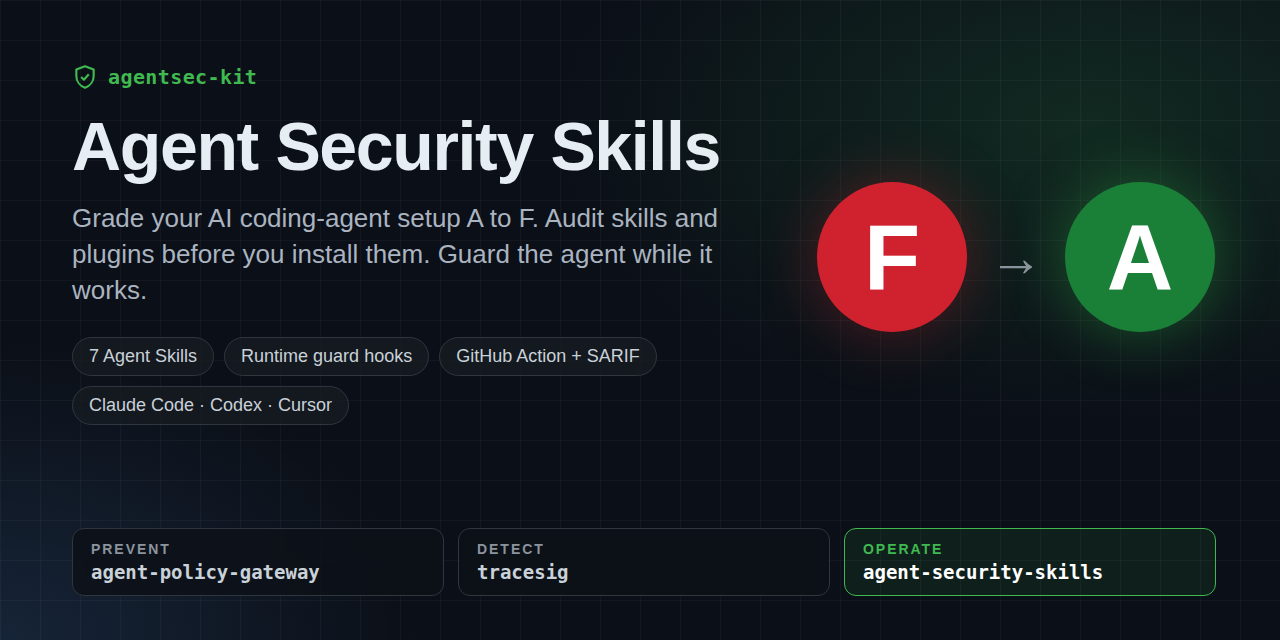
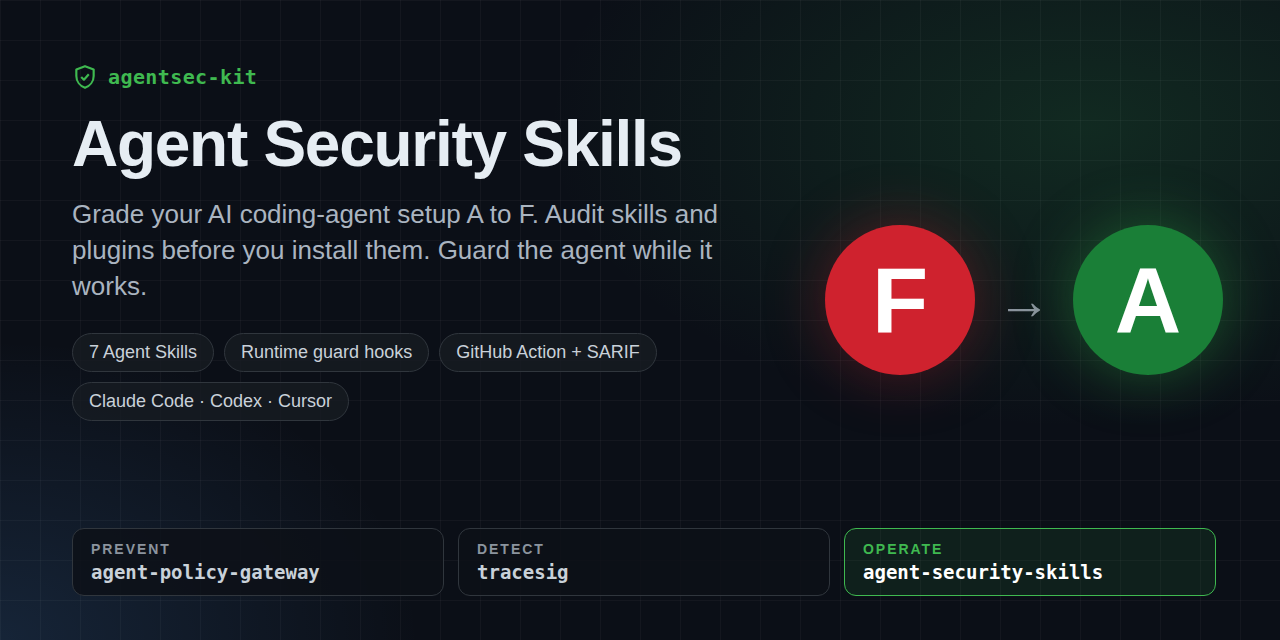
Pin agent-trace-detection to TraceSig 0.2.0; refresh social preview
TraceSig 0.2.0 reads Claude Code transcripts and agent-policy-gateway exports
directly and ships this skill's CC rules as its claude-code pack.

Claude-Session: https://claude.ai/code/session_01FwhXj6K8KKvpYWVdVHzQD6

diff --git a/skills/agent-trace-detection/SKILL.md b/skills/agent-trace-detection/SKILL.md
@@ -2,7 +2,7 @@
 name: agent-trace-detection
 description: Builds and runs detections over AI coding-agent activity - normalizes Claude Code session transcripts and OpenTelemetry exports, runs bundled Sigma rules (for SIEMs) and TraceSig rules (provenance-aware, e.g. secret read then network call, untrusted content then publish), and guides writing and testing new agent detections. Use to set up monitoring for coding-agent fleets, hunt through local transcripts after a suspicious session, or write detection rules for agent tool calls.
 license: Apache-2.0
-compatibility: Python 3.9+. sigma_check.py needs PyYAML. TraceSig rules need the tracesig package from github.com/howardhsieh/tracesig.
+compatibility: Python 3.9+. sigma_check.py needs PyYAML. TraceSig rules need the tracesig package (0.2.0+) from github.com/howardhsieh/tracesig.
 metadata:
   author: howardhsieh
   version: "0.2.0"
@@ -116,10 +116,15 @@ python3 "$S/scripts/normalize.py" otel-export.json --format flat --out "$W/flat.
 TraceSig rules (provenance chains, in `assets/tracesig/`):
 
 ```bash
-pip install "git+https://github.com/howardhsieh/tracesig@773e019a4fd84a6a8ca17acb1ba4b51076abe82c"
+pip install "git+https://github.com/howardhsieh/tracesig@f9b498521b583eb153ece19f08b0af31c8b52be0"   # TraceSig 0.2.0
 tracesig scan "$W/trace.jsonl" --rules "$S/assets/tracesig/"
 tracesig scan "$W/trace.jsonl" --rules "$S/assets/tracesig/" --fail-on critical   # CI
 ```
+
+TraceSig 0.2.0 also reads transcripts directly and bundles these rules as its
+`claude-code` pack: `tracesig scan ~/.claude/projects/PROJECT/` gives the same
+findings without the normalize step. It reads agent-policy-gateway audit
+exports too (`apg audit export audit.jsonl --format tracesig`).
 
 | ID | Severity | Chain |
 |---|---|---|
